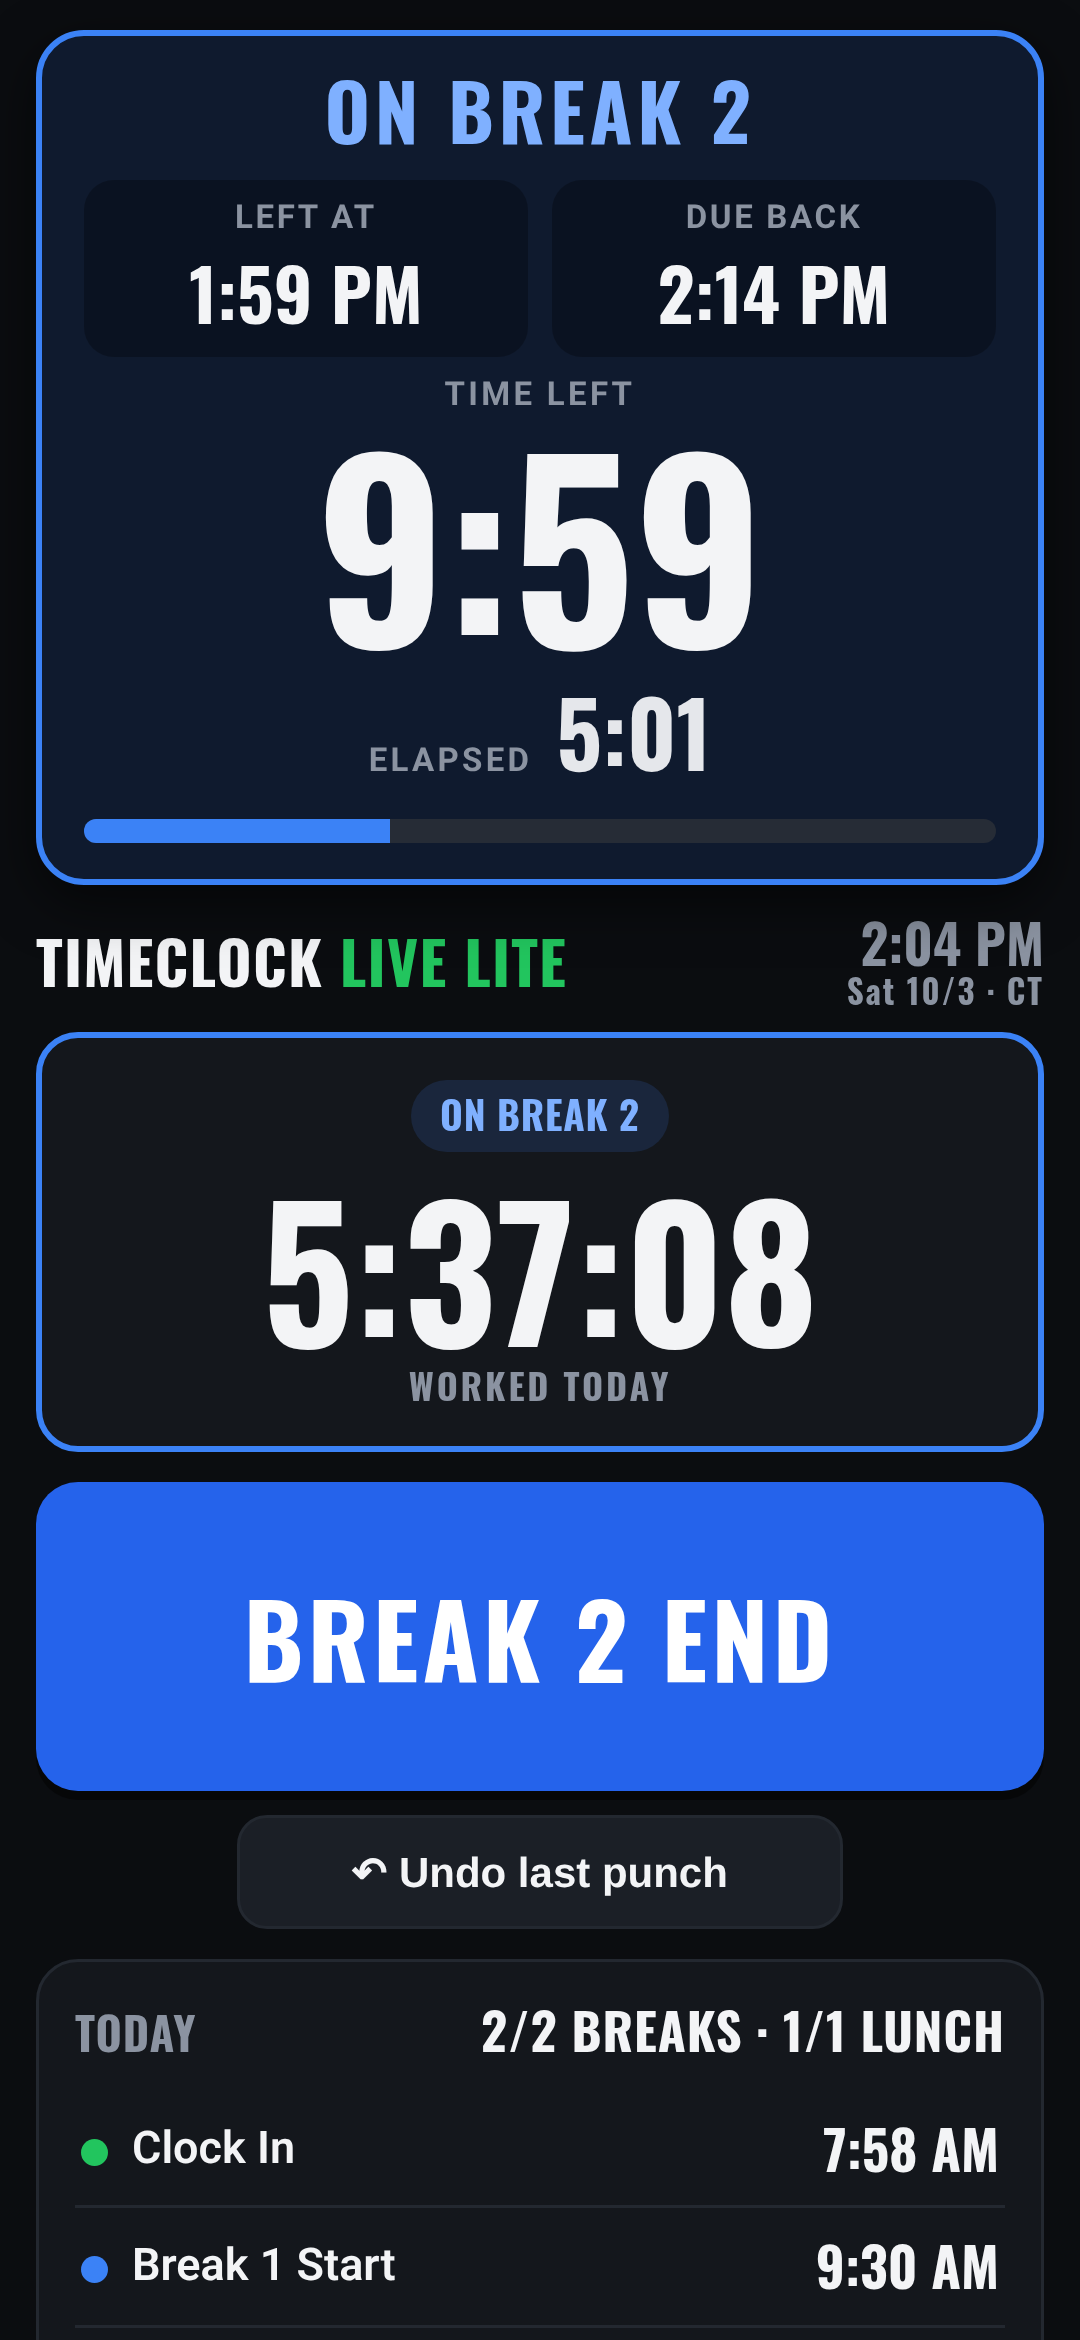
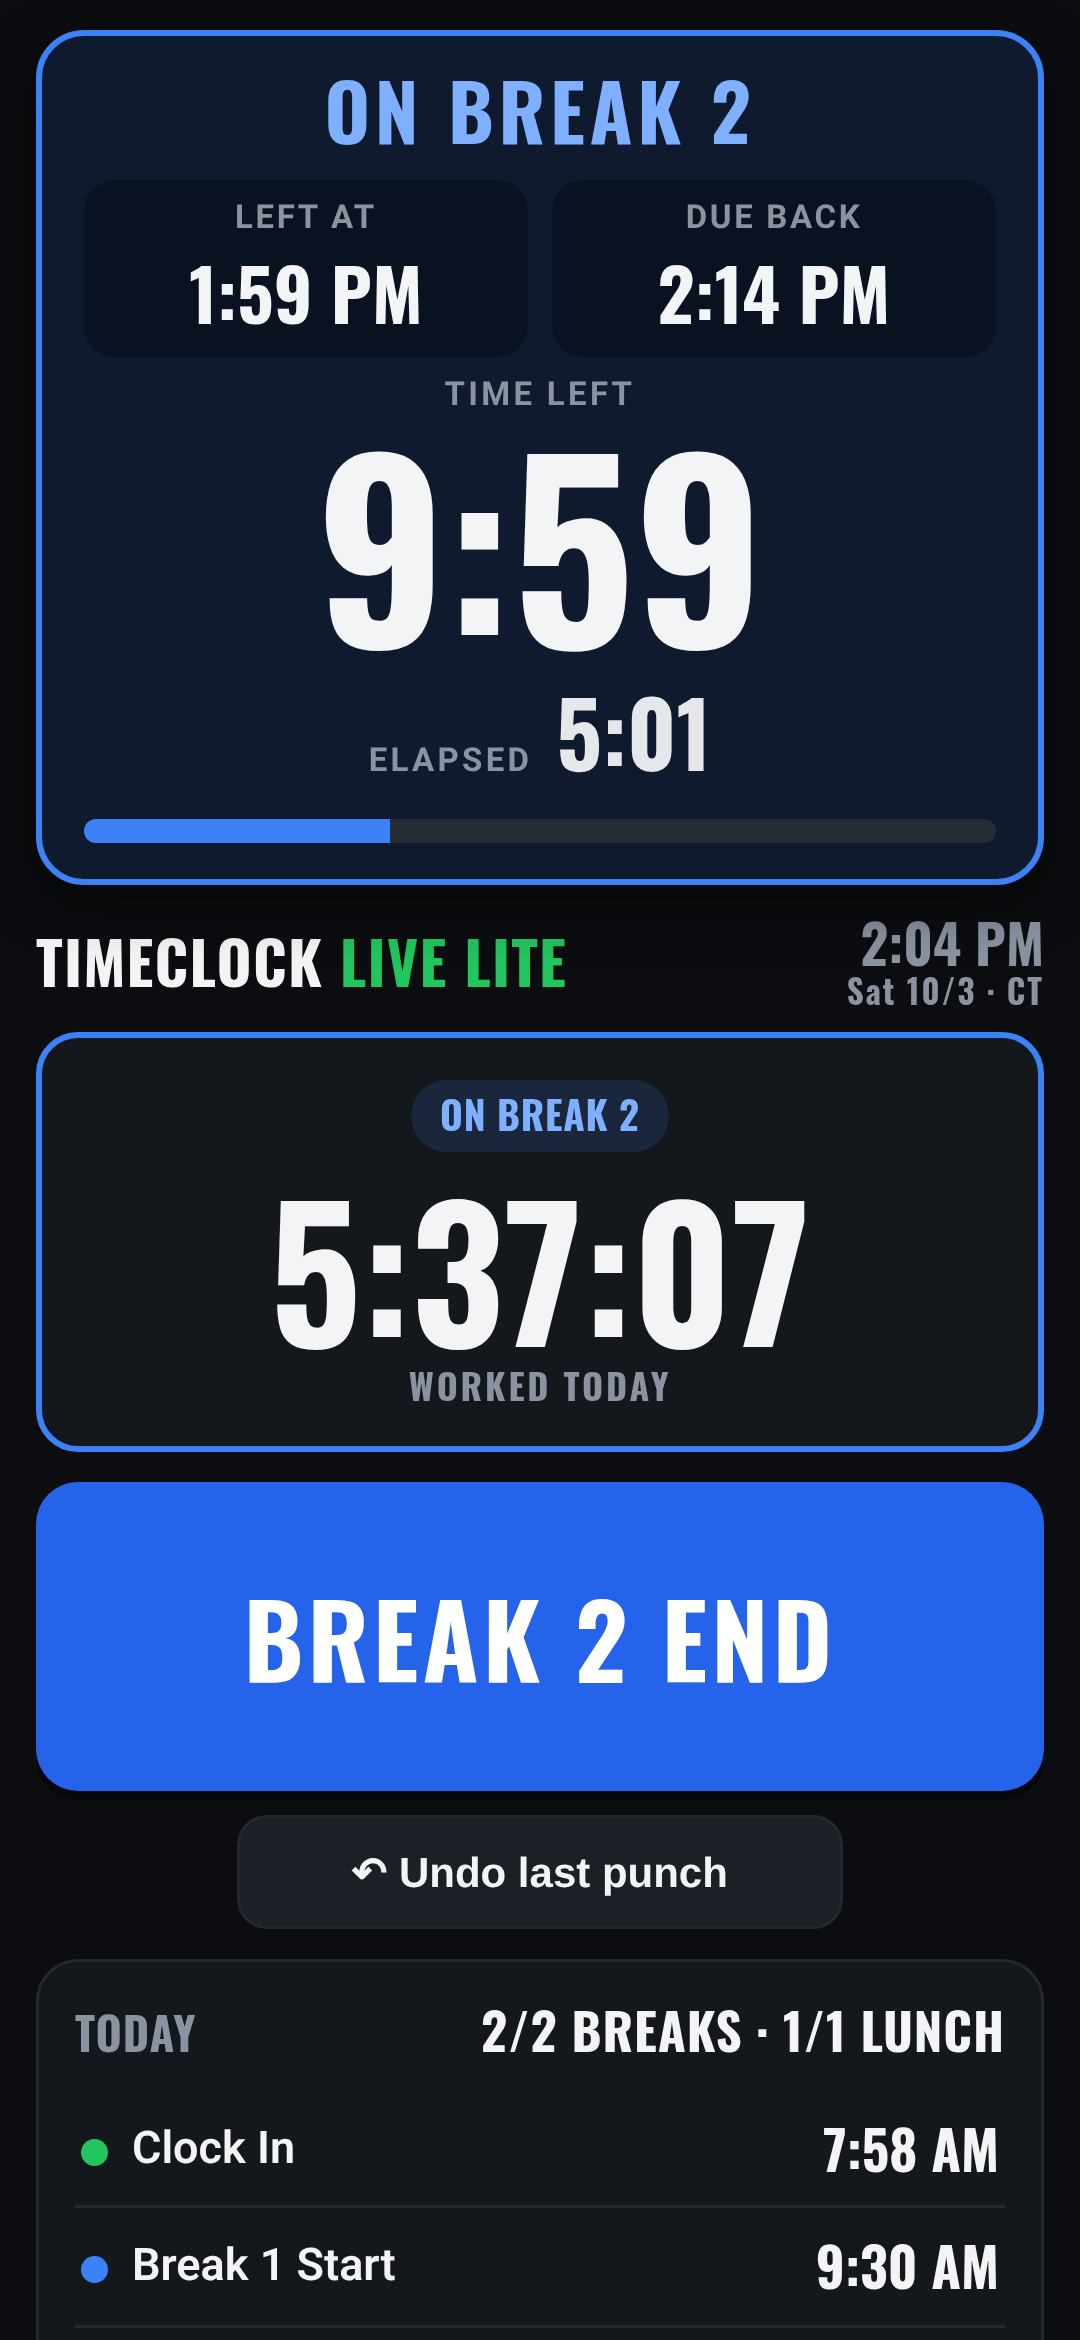
Test tolerance + live check v1.2.1

Changed region(s): [[0.2444, 0.4991, 0.7639, 0.5927]]

diff --git a/test/test.py b/test/test.py
@@ -72,7 +72,7 @@ try:
     chk('after lunch: break2/out',btns()==['Break 2 Start','Clock Out'],btns())
     pg.clock.run_for(2*3600*1000)
     pg.click('text=Break 2 Start'); pg.clock.run_for(5*60*1000)
-    pv=panel(); chk('panel ON BREAK 2',pv['cdTitle']=='ON BREAK 2' and pv['cdElapsed'] in ('5:00','5:01'),pv)
+    pv=panel(); chk('panel ON BREAK 2',pv['cdTitle']=='ON BREAK 2' and pv['cdElapsed'] in ('4:59','5:00','5:01'),pv)
     pg.wait_for_timeout(1200); pg.screenshot(path=ROOT+'/screenshot.png'); pg.screenshot(path=ROOT+'/test/screenshot-full.png',full_page=True)
     pg.clock.run_for(9*60*1000); pg.click('text=Break 2 End')
     chk('after all: only Clock Out',btns()==['Clock Out'],btns())
